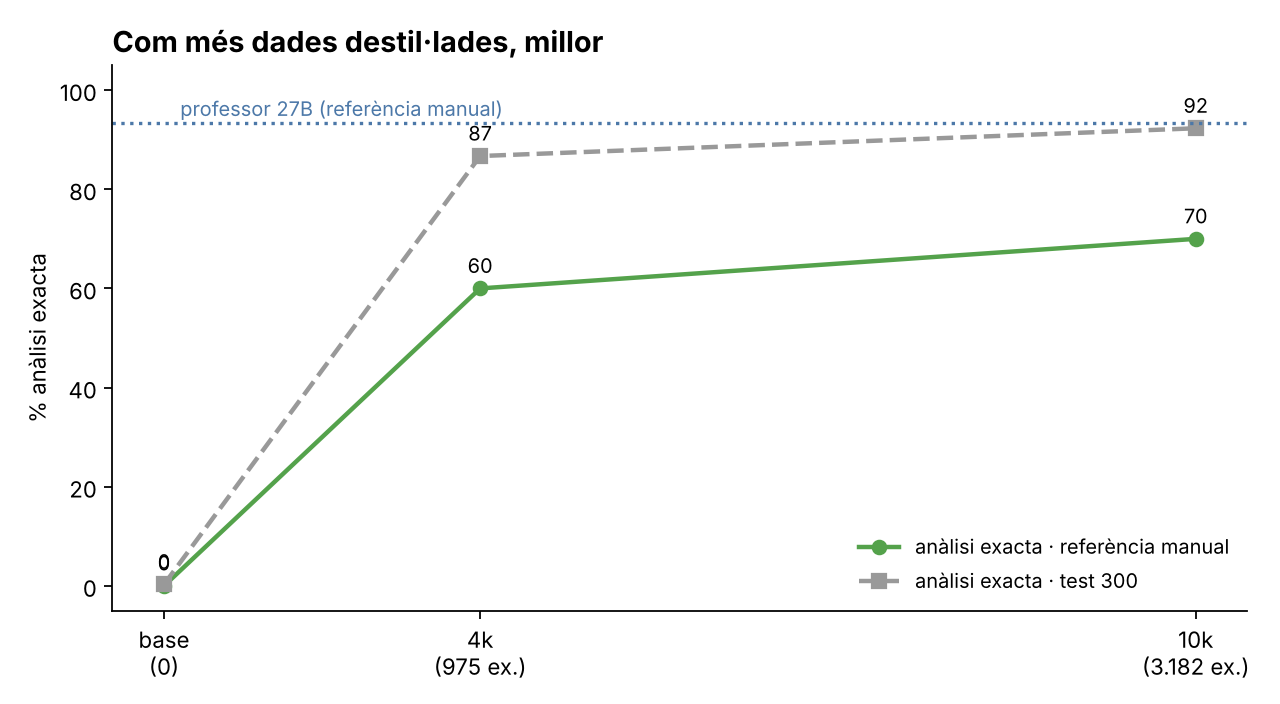
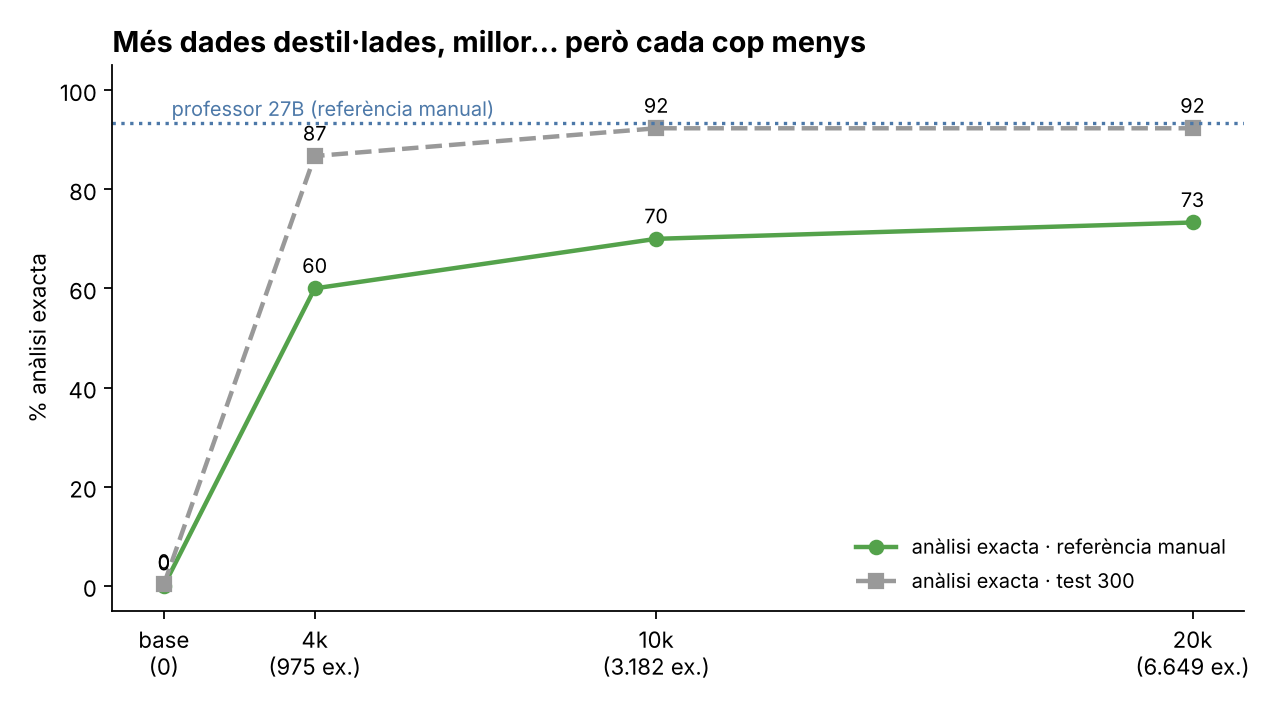
README: afegeix el 20k (model, dataset, GGUF), corba de dades i incoatius

diff --git a/grafics_readme.py b/grafics_readme.py
@@ -41,7 +41,7 @@ ax.axhline(M["professor"]["ref"]["exacte"], color="#4C78A8", ls=":", lw=1.5)
 ax.text(xs[0] + 50, M["professor"]["ref"]["exacte"] + 1.5, "professor 27B (referència manual)", color="#4C78A8", ha="left", fontsize=9)
 ax.set_xticks(xs, ["base\n(0)"] + [f"{m}\n({M[m]['exemples_train']:,} ex.)".replace(",", ".") for m in mides])
 ax.set_ylim(-5, 105); ax.set_ylabel("% anàlisi exacta")
-ax.set_title("Com més dades destil·lades, millor", loc="left", fontsize=13, fontweight="bold")
+ax.set_title("Més dades destil·lades, millor… però cada cop menys", loc="left", fontsize=13, fontweight="bold")
 ax.legend(frameon=False, loc="lower right", fontsize=9)
 plt.tight_layout(); plt.savefig("resultats/corba_dades.png", dpi=160); plt.close()
 
